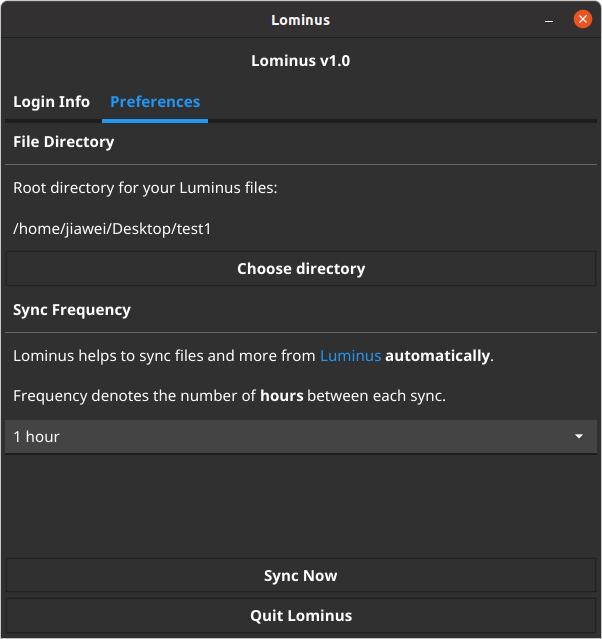
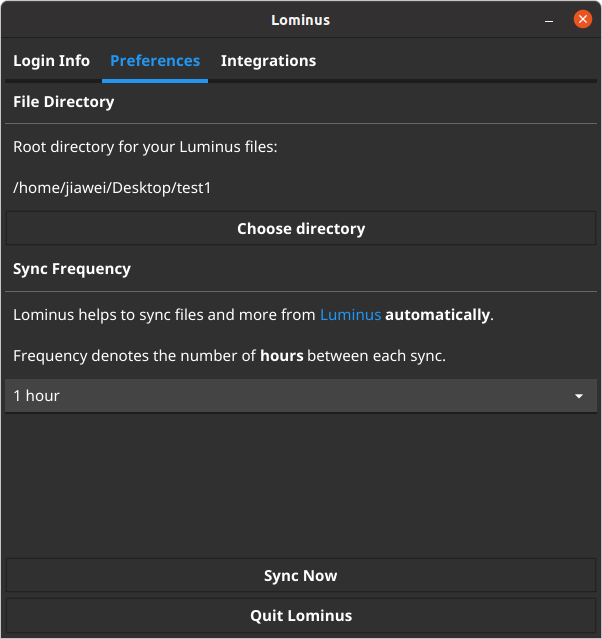
updated screenshots

diff --git a/screenshots/SCREENSHOTS.md b/screenshots/SCREENSHOTS.md
@@ -1,0 +1,45 @@
+# Screenshots
+
+## Windows
+
+![image](./win-1.png)
+*Login Info*
+
+![image](./win-2.png)
+*Preferences*
+
+![image](./win-3.png)
+*Integrations*
+
+![image](./win-4.png)
+*System Tray*
+
+## macOS
+
+![image](./mac-1.png)
+*Login Info*
+
+![image](./mac-2.png)
+*Preferences*
+
+![image](./mac-3.png)
+*Integrations*
+
+## Ubuntu GNOME
+
+![image](./ubuntu-1.png)
+*Login Info*
+
+![image](./ubuntu-2.png)
+*Preferences*
+
+![image](./ubuntu-3.png)
+*Integrations*
+
+## Telegram
+
+![image](./telegram-1.png)
+*Integration test message*
+
+![image](./telegram-2.png)
+*Sample grade notification message*
